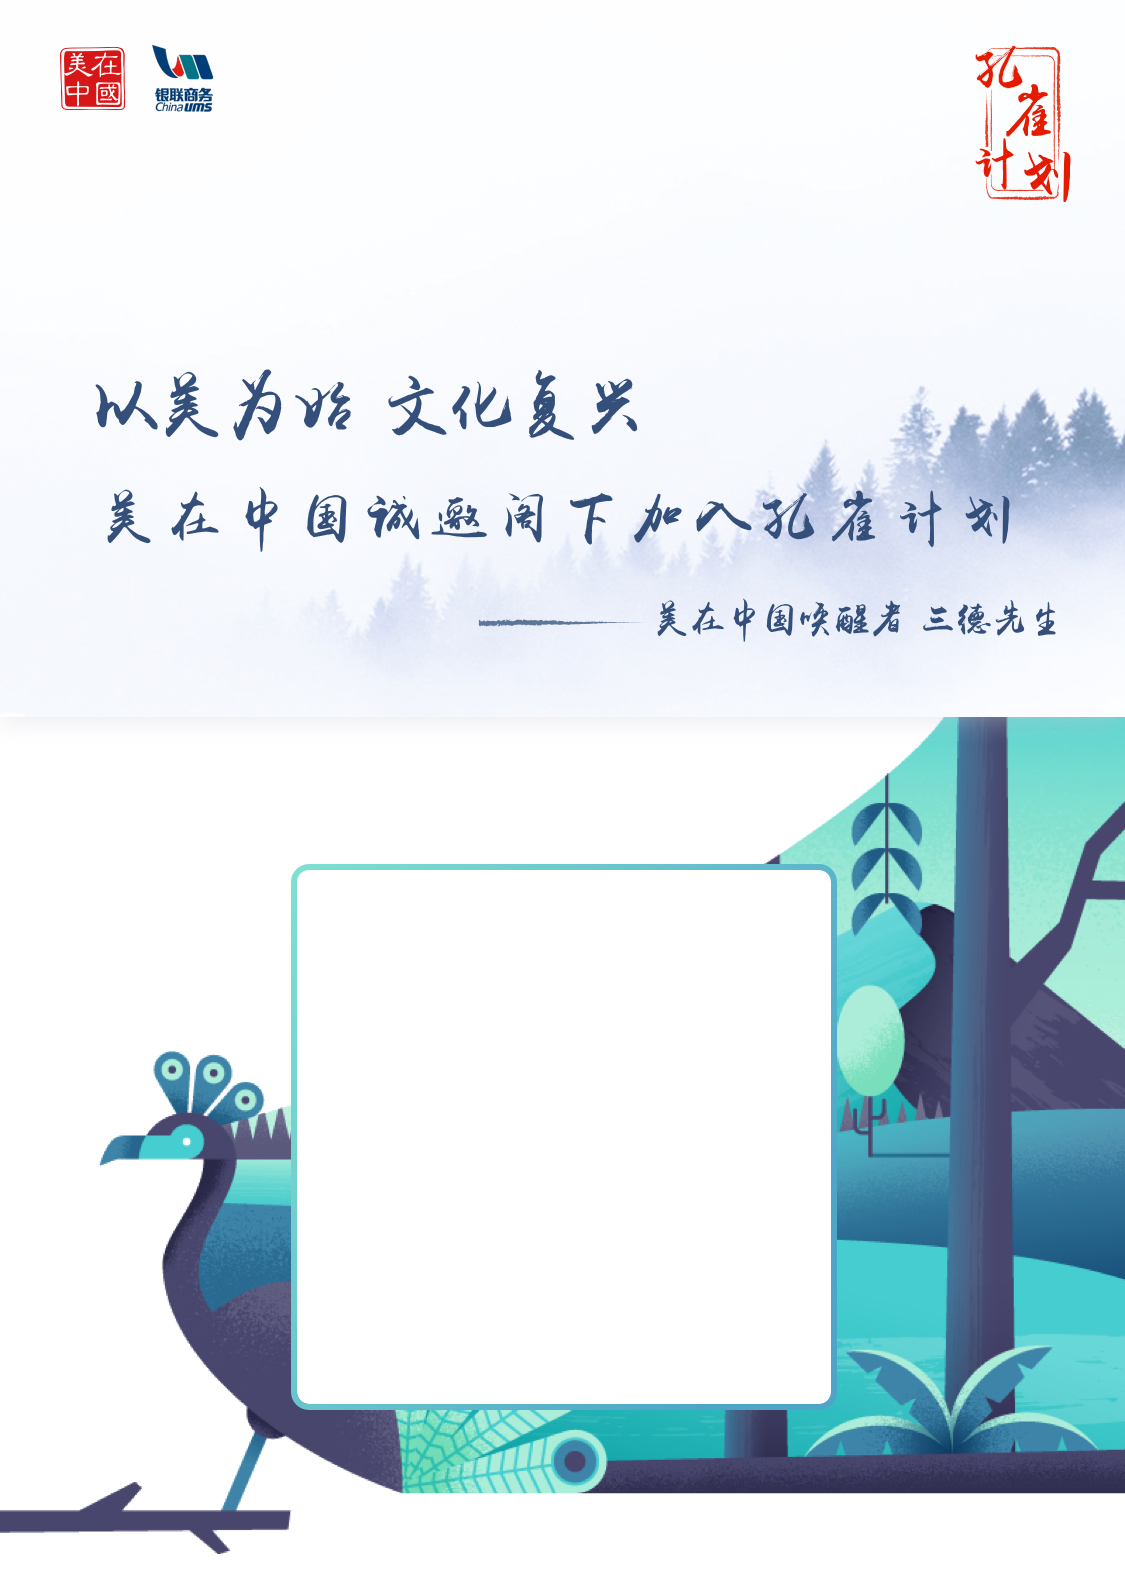
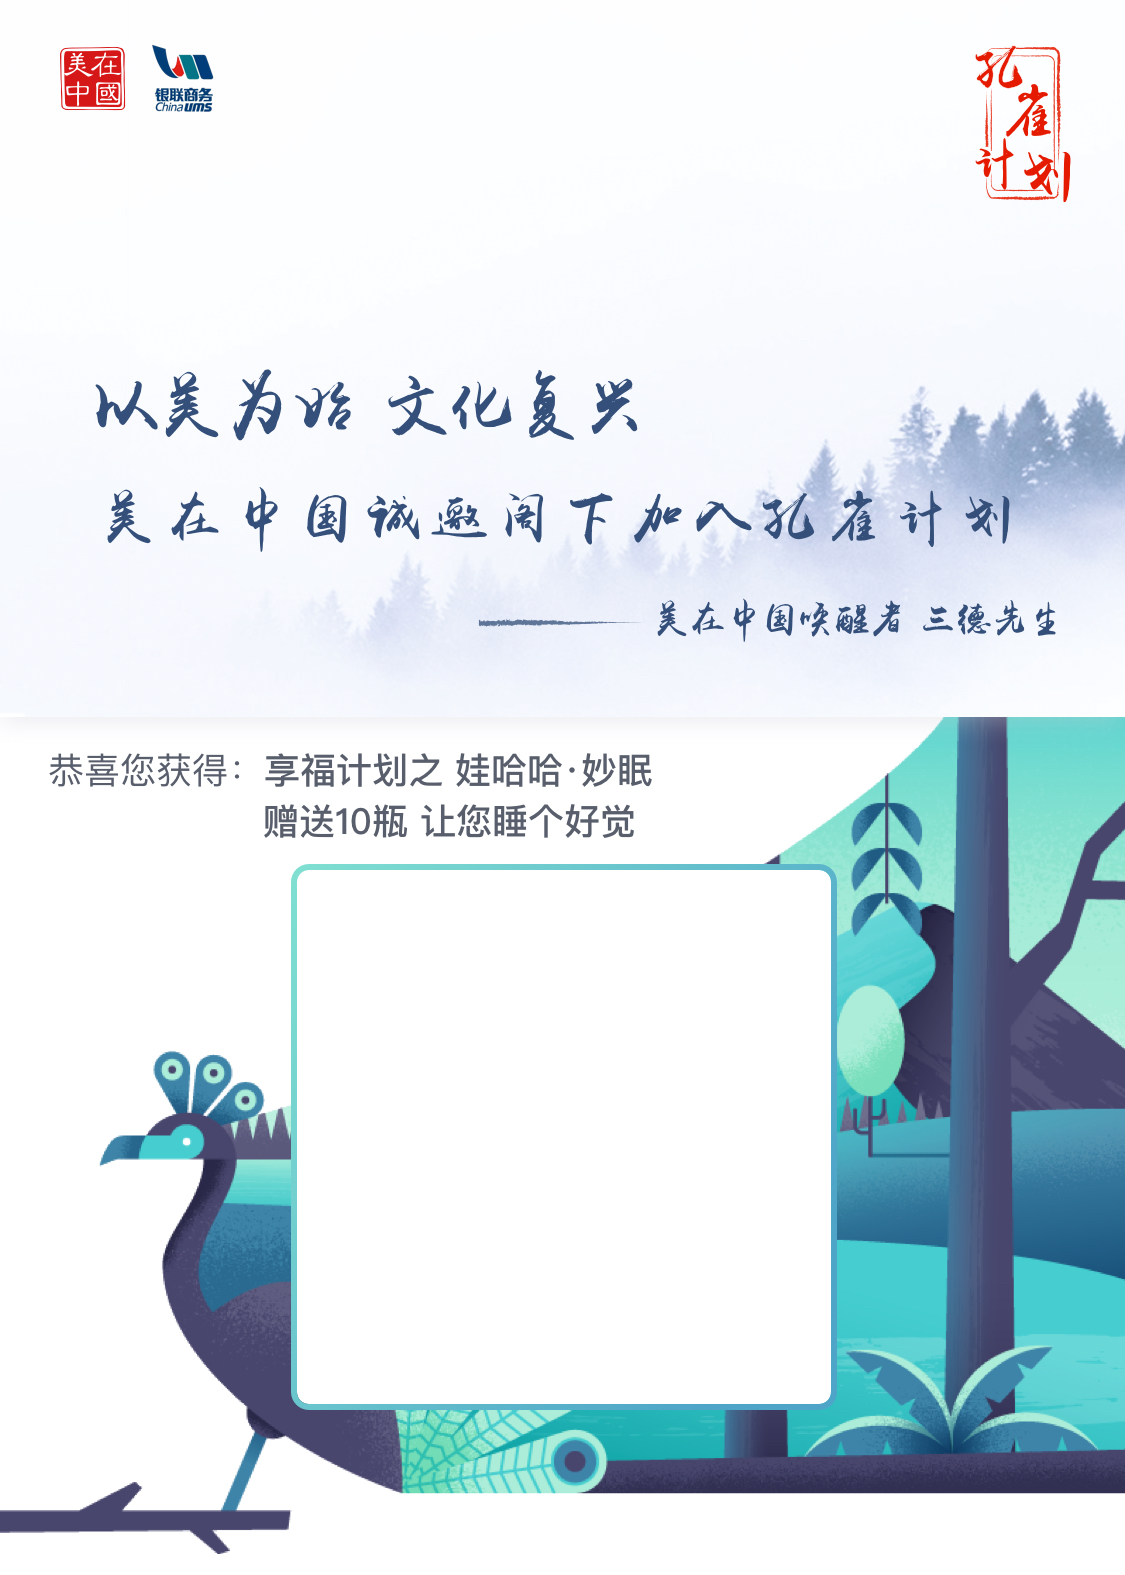
modify something

Changed region(s): [[0.0311, 0.4667, 0.5911, 0.5289]]

diff --git a/src/views/Invitation.vue b/src/views/Invitation.vue
@@ -45,6 +45,15 @@
             </div>
             <div class="card">
                 <img class="card_img" src="../assets/images/codeShareBac.png" alt="背景图">
+                <div class="card_words">
+                    <div class="card_words_left">恭喜您获得：</div>
+                    <!-- <div class="card_words_right">享福计划之 娃哈哈·妙眠  
+                  赠送10瓶 让您睡个好觉</div> -->
+                  <div class="card_words_right">
+                      <span class="card_words_right_one">享福计划之 娃哈哈·妙眠</span>
+                      <span class="card_words_right_two">赠送10瓶 让您睡个好觉</span>
+                  </div>
+                </div>
                 <div class="card_count">
                     <img id="erweima" class="card_count_img" :src="erweima" alt="二维码">
                 </div>
@@ -224,6 +233,10 @@ export default {
         flex-direction: row;
         flex-wrap: wrap;
     }
+    @mixin box_six{
+        display: flex;
+        flex-direction: row;
+    }
     #invitation{
         @include box_one();
         width: 100%;
@@ -325,6 +338,35 @@ export default {
                     // top: 0;
                     // left: 0;
                     // z-index: -1;
+                }
+                .card_words{
+                    @include box_six();
+                    width: px2rem(440);
+                    height: px2rem(68);
+                    position: absolute;
+                    left: 4.27%;
+                    top: px2rem(20);
+                    @mixin add_words{
+                        font-size:px2rem(24);
+                        color:rgba(88,94,107,1);
+                        line-height:px2rem(34);
+                    }
+                    .card_words_left{
+                        @include add_words();
+                        width: px2rem(155);
+                        height: px2rem(68);
+                        font-weight:400;
+                    }
+                    .card_words_right{
+                        @include box_one();
+                        @include add_words();
+                        width: px2rem(305);
+                        height: px2rem(68);
+                        font-weight:bold;
+                        .card_words_right_two{
+                            margin-top: px2rem(6);
+                        }
+                    }
                 }
                 .card_count{
                     @include box_three();
